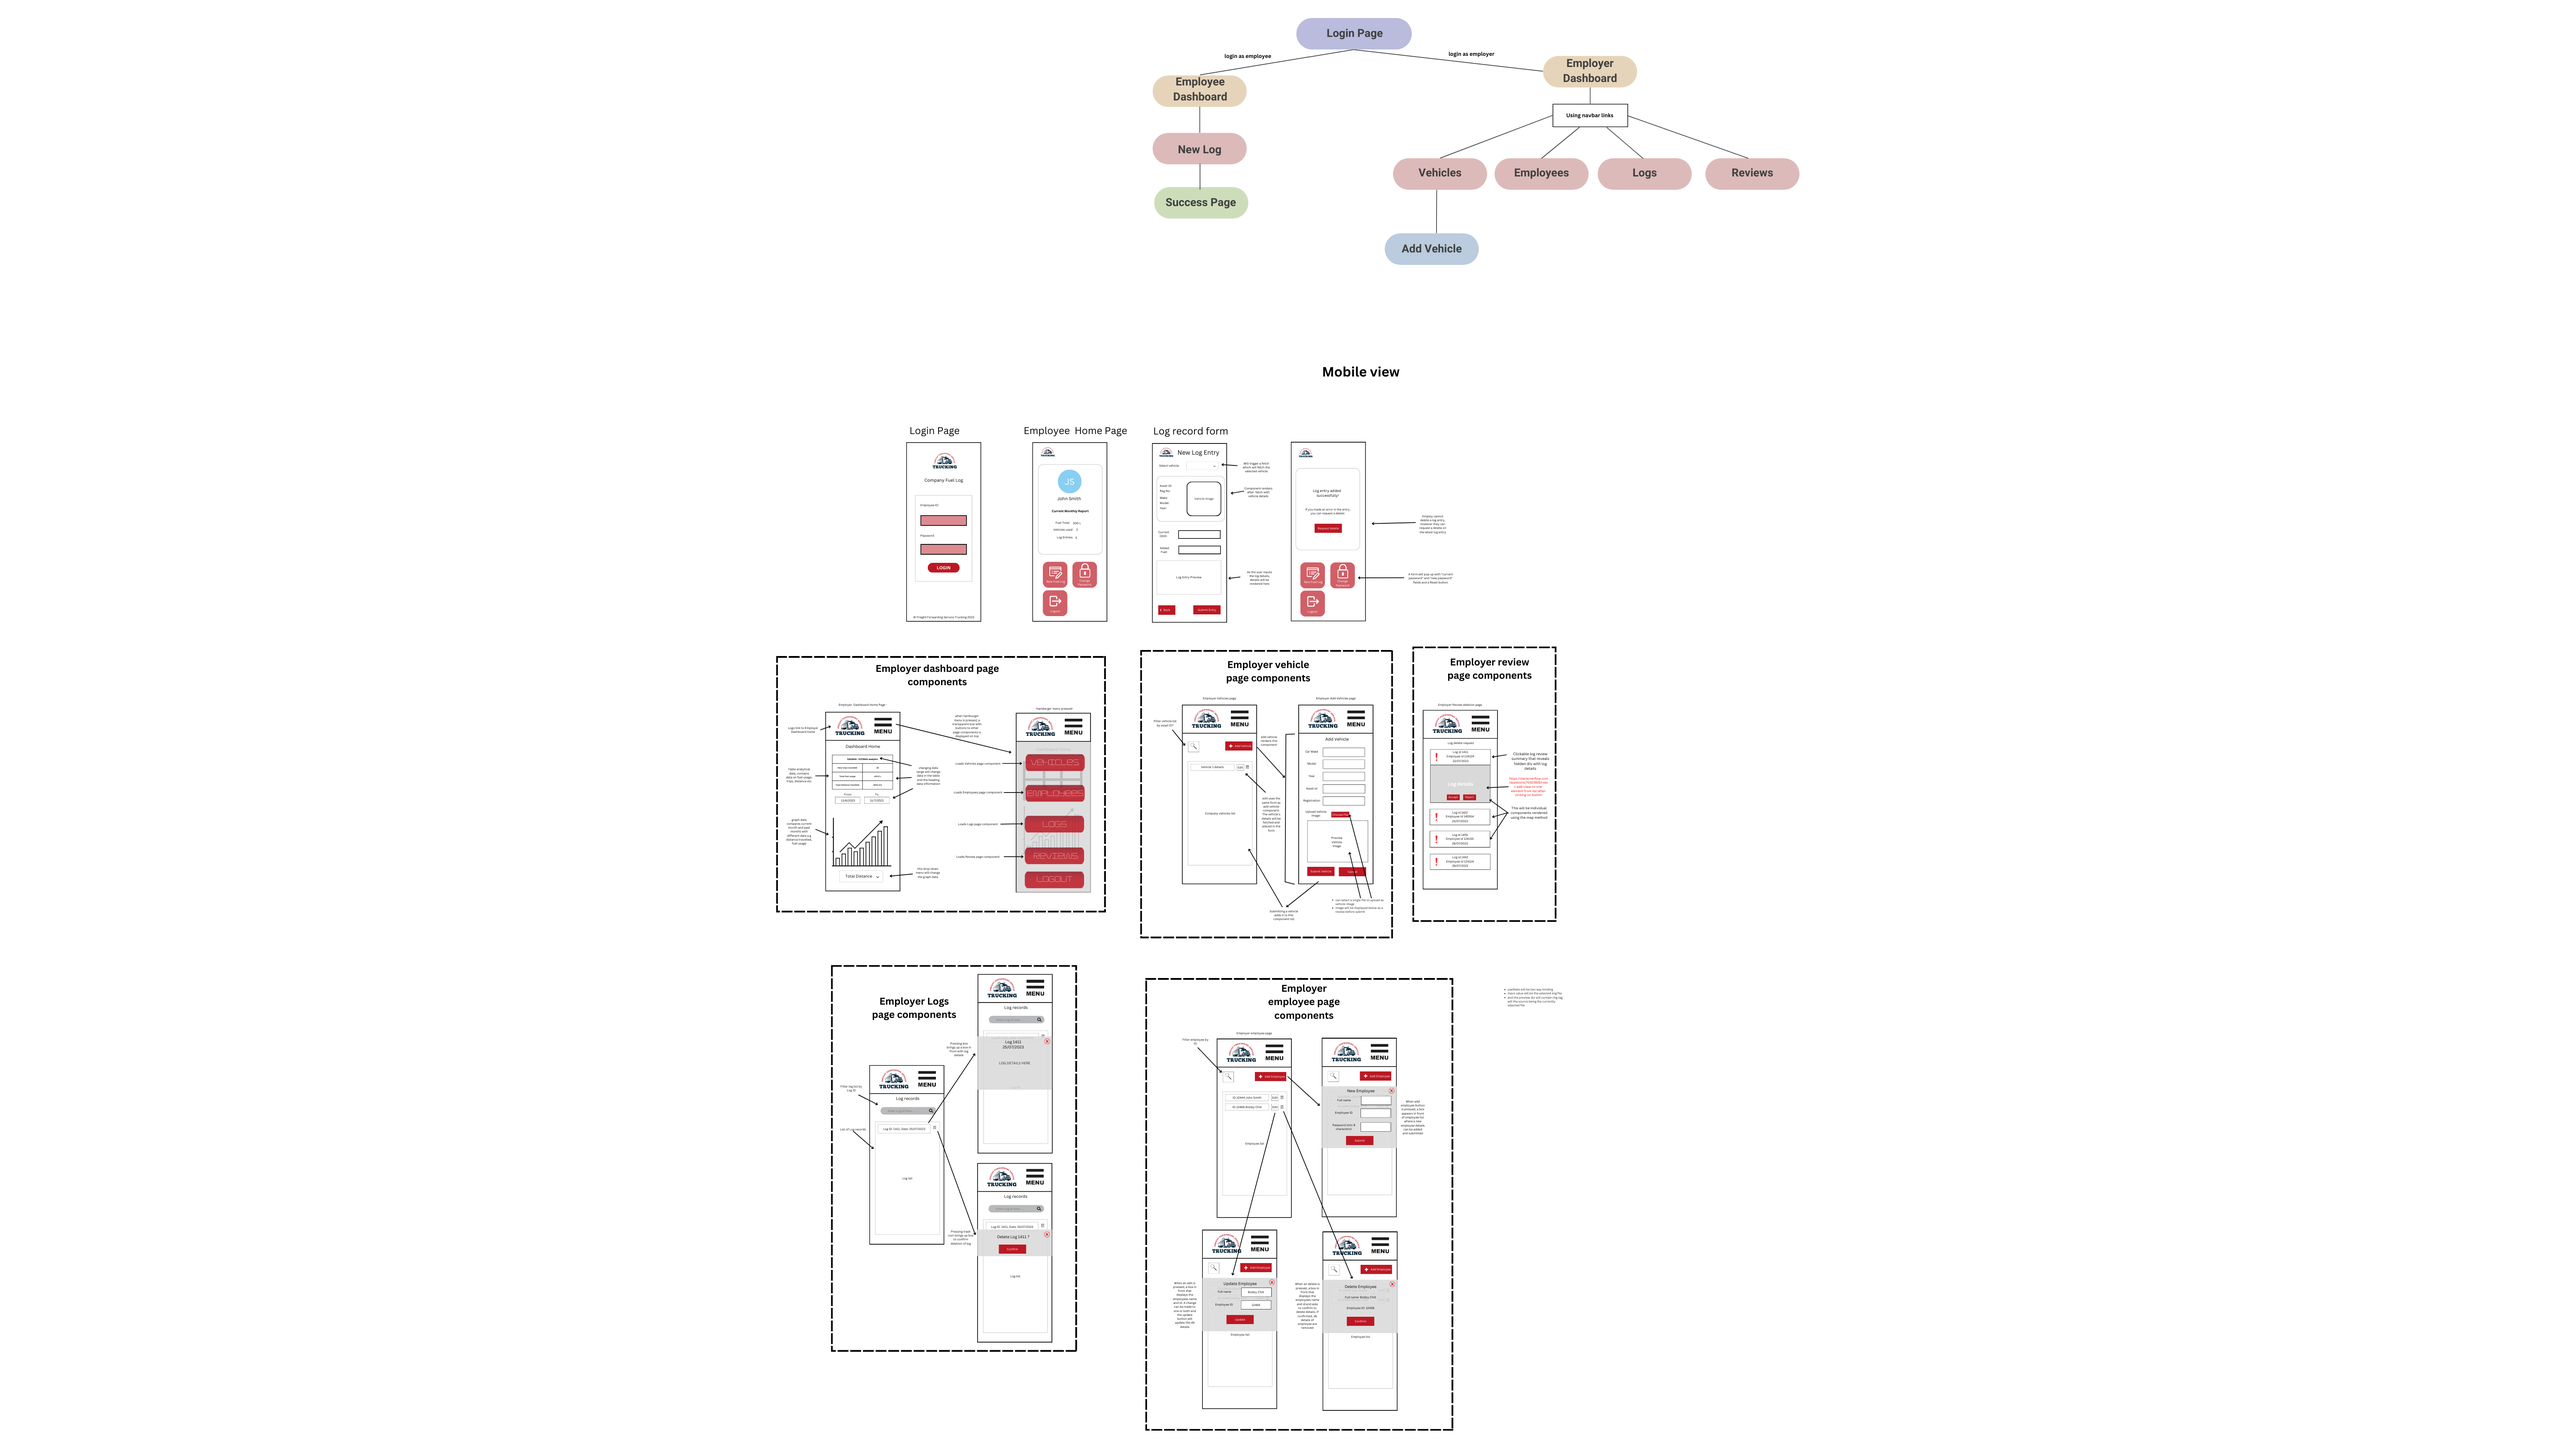
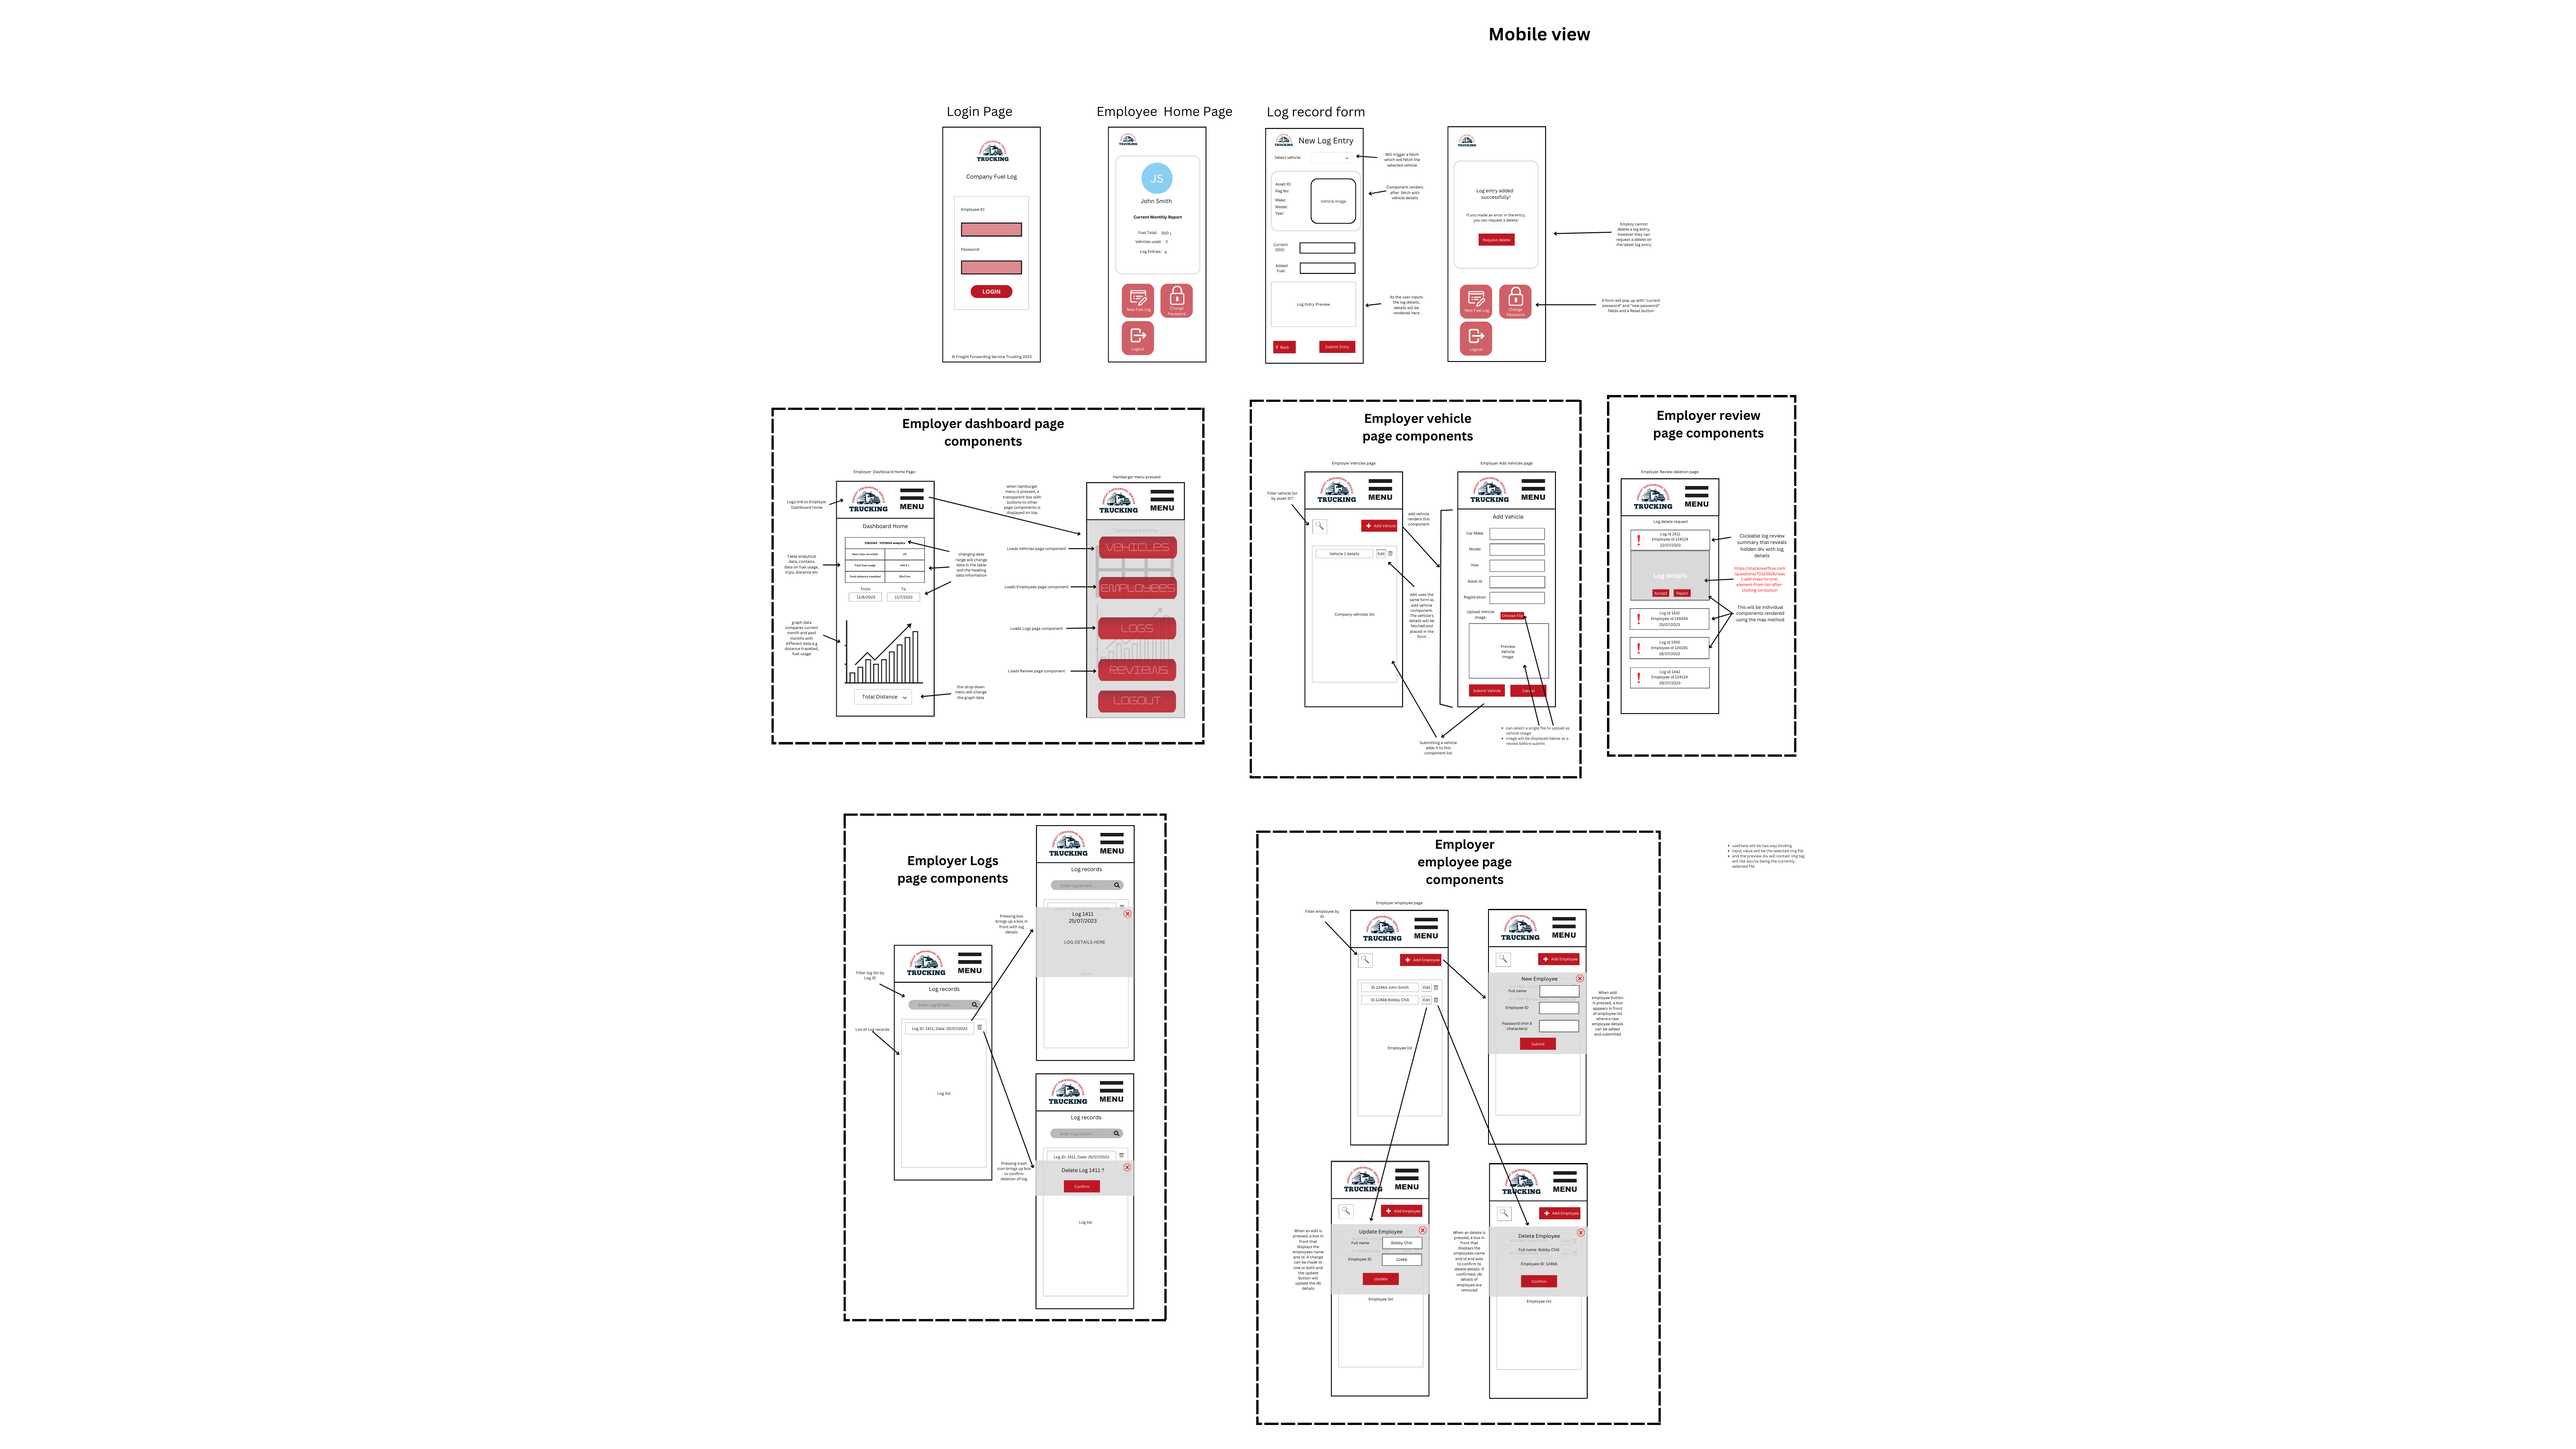
added wireframes to readme

diff --git a/README.md b/README.md
@@ -1,7 +1,7 @@
 # FullStackFuelLog
 
 ### Purpose of this Application
-The purpose of this application is to log and digitize fuel usage for a company entity that has a fleet of vehicles. 
+The purpose of this application is to log and digitize fuel usage for a company entity that has a fleet of vehicles.
 
 
 ### Features
@@ -12,7 +12,7 @@ The purpose of this application is to log and digitize fuel usage for a company 
 * Simple and intuitive UI
 
 ### Target Audience
-This application is targetted towards companies that are need of tracking fleets of vehicles with access to fuel usage and distance data.
+This application is targetted towards companies that are in need of tracking fleets of vehicles with access to fuel usage and distance data. The application uses the recorded data to generate useful reports for the company in an easy-to-understand way, allowing for the company to potentially have the ability to budget and plan for fuel expenses.
 
 ### Tech Stack
 ##### Application and Data
@@ -23,11 +23,13 @@ This application is targetted towards companies that are need of tracking fleets
 * JavaScript
 * CSS
 * HTML
+* AWS S3
 
 ##### Documentation
 * Microsoft powerpoint
 * Canva.com
 * Jira
+* Draw.io
 
 ### Dataflow Diagram
 
@@ -50,10 +52,16 @@ As an employer, I want my employees to be able to record their trips so that it 
 ##### User story 5
 As an employee, I want a user friendly UI with minimual input so that I can record a log as efficiently as possible.
 
-##### User story 6
-
-
 ### Wireframes
+
+[Mobile Wireframe](./docs/Fuel%20App%20Wireframes/Mobile.png)
+![mobile-wire-frame](./docs/Fuel%20App%20Wireframes/Mobile.png)
+
+[Tablet Wireframe](./docs/Fuel%20App%20Wireframes/Tablet.png)
+![tablet-wire-frame](./docs/Fuel%20App%20Wireframes/Tablet.png)
+
+[Desktop Wireframe](./docs/Fuel%20App%20Wireframes/Desktop.png)
+![desktop-wire-frame](./docs/Fuel%20App%20Wireframes/Desktop.png)
 
 ### Jira Kanban Screenshots
 
